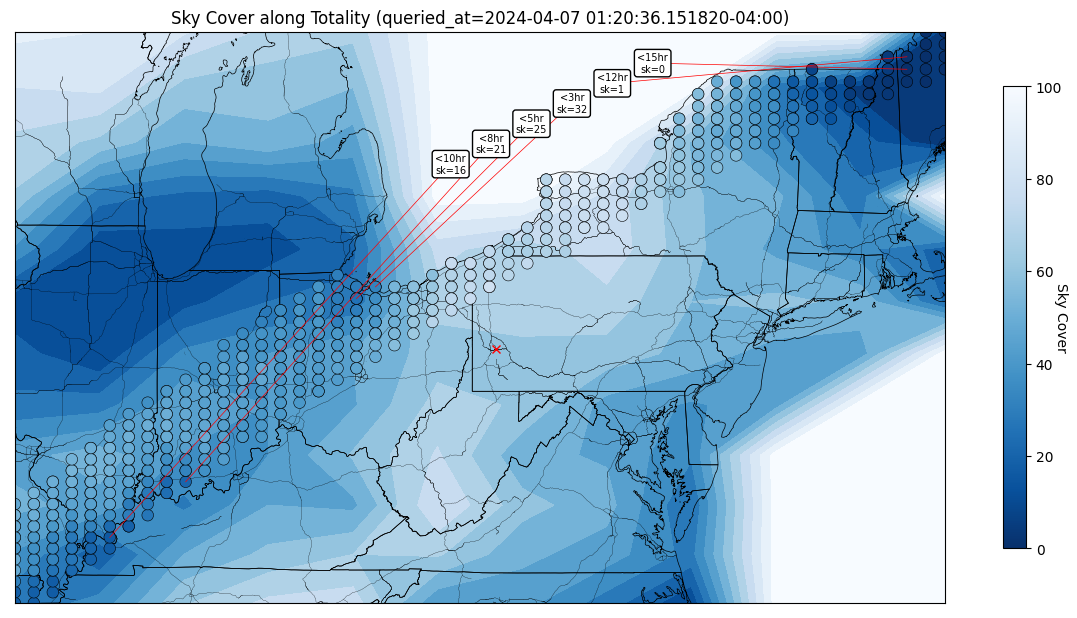
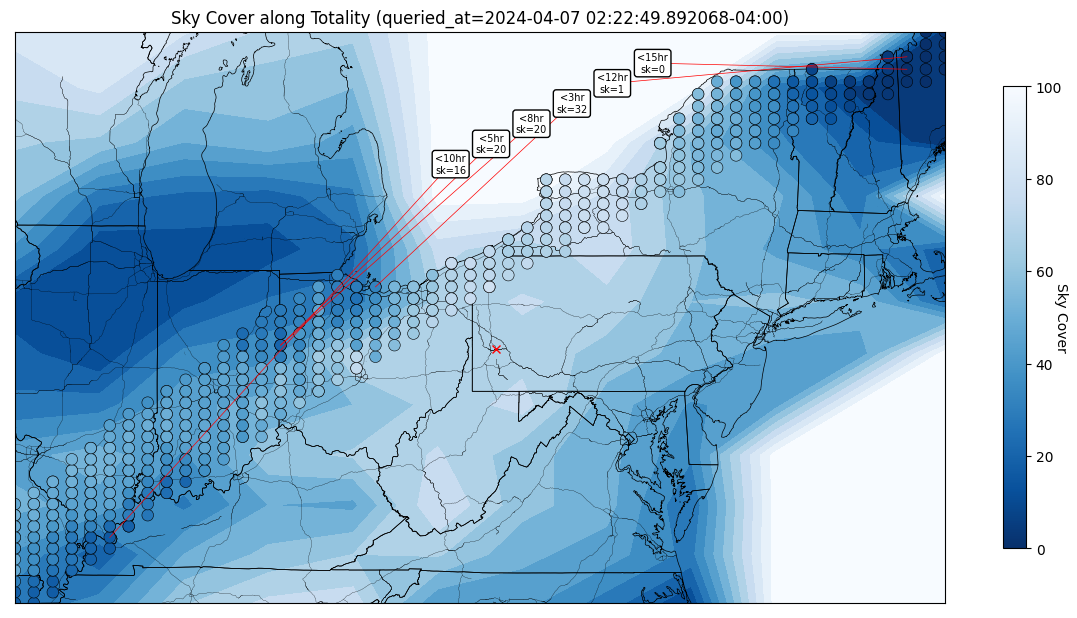
Automated map update

diff --git a/README.md b/README.md
@@ -3,8 +3,8 @@ The last sky cover plot generated:
 
 The best targets by hour:
  - Less than 10 hours: (37.17551, -88.58776) cover: 16
- - Less than 8 hours: (38.15510, -86.89796) cover: 21
- - Less than 5 hours: (41.28980, -83.09592) cover: 25
+ - Less than 5 hours: (40.50612, -84.78571) cover: 20
+ - Less than 8 hours: (40.50612, -84.78571) cover: 20
  - Less than 3 hours: (41.48571, -82.67347) cover: 32
  - Less than 12 hours: (45.20816, -70.84490) cover: 1
  - Less than 15 hours: (45.01224, -70.84490) cover: 0
